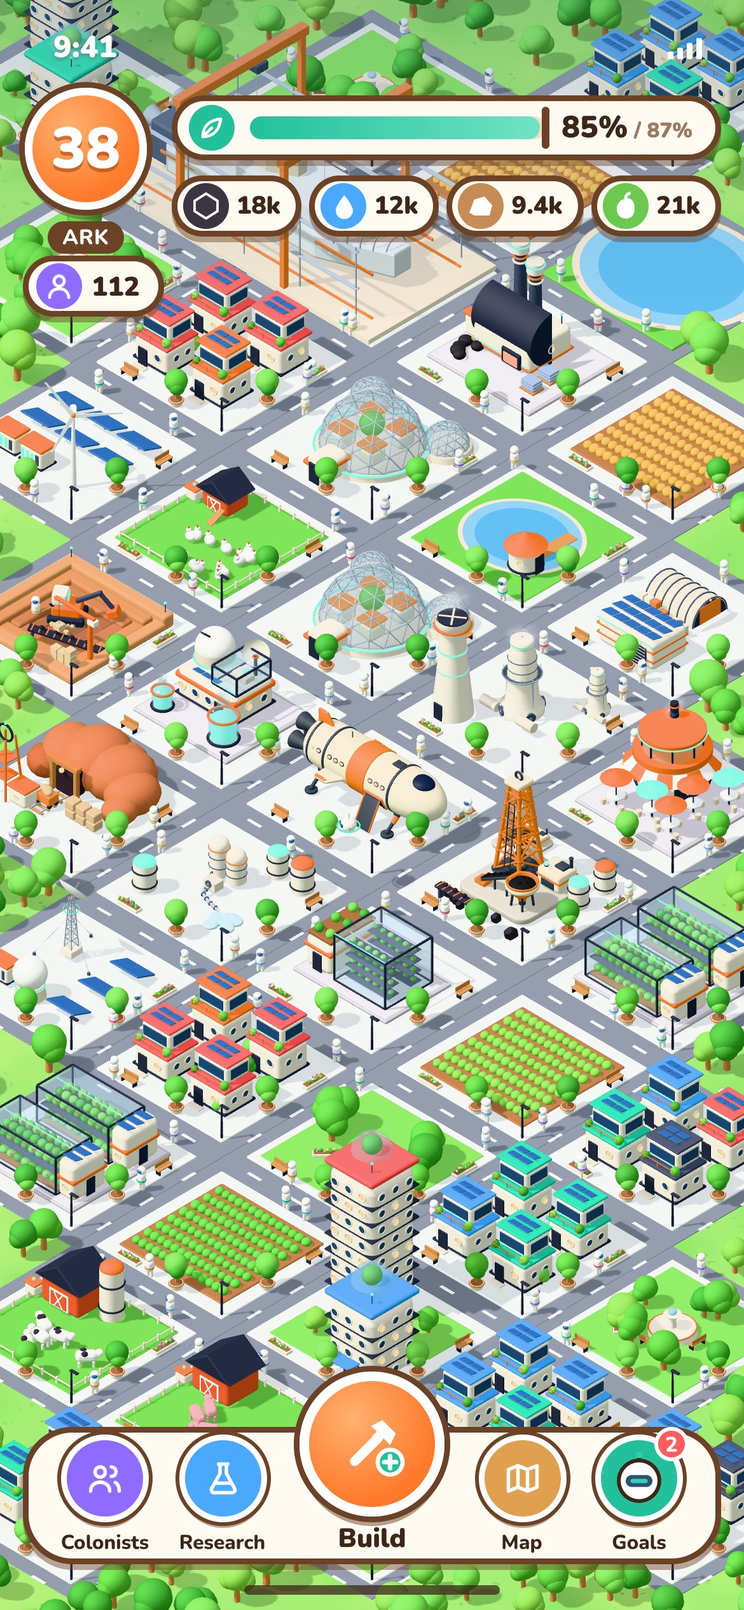
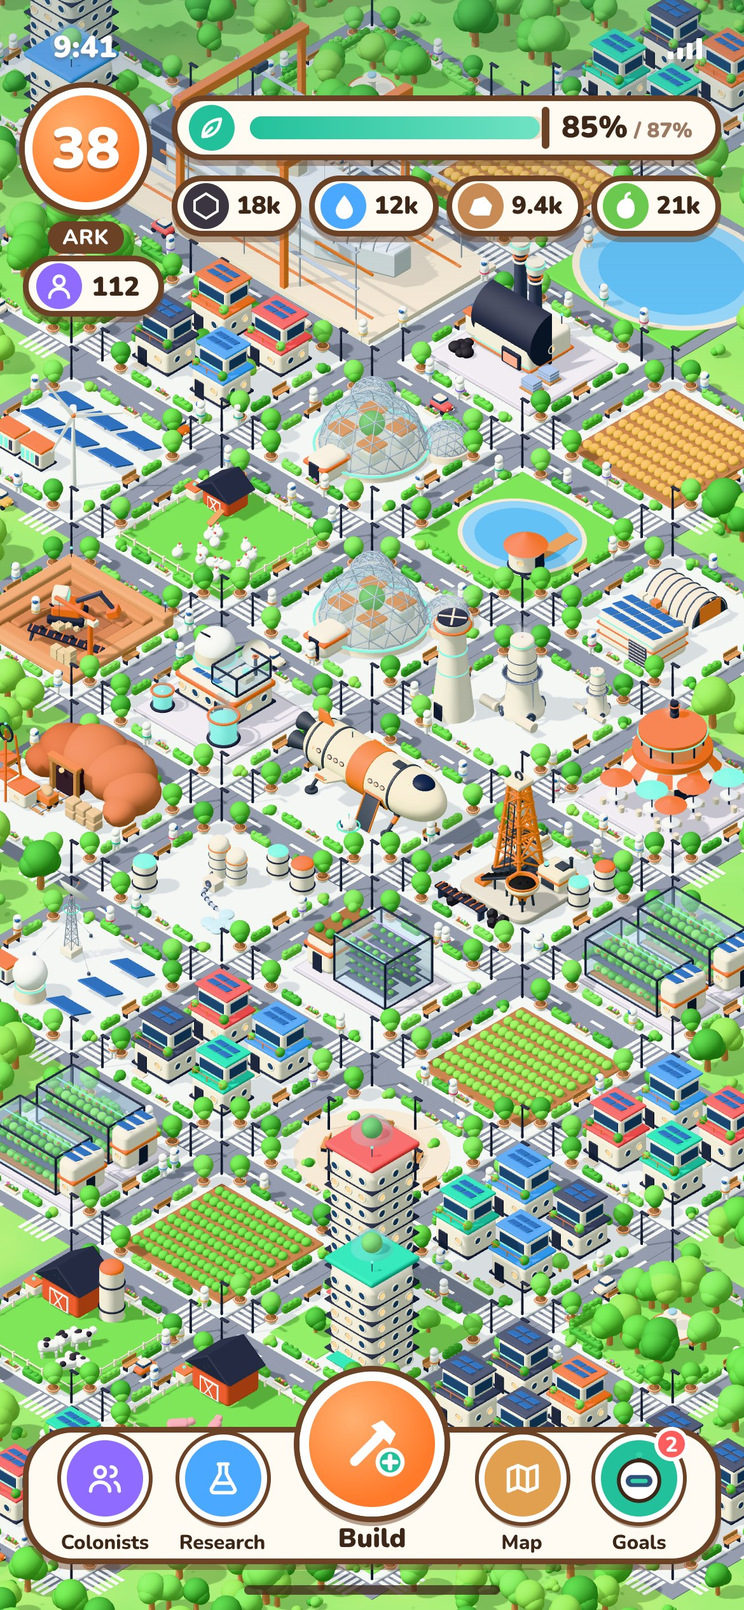
Add denser greenery, street life and night frames to the example map
The pavements get lamps on every corner, long hedges, trees or bushes,
benches and flowers; crossings at the junctions, small electric cars,
hedges around the parks and a plaza with a model of the Ark. The map can
be shown at night (#atm20-night, #atm50-night, #atm85-night): a pale moon,
lit windows, pools of light under the lamps and the cars' headlights.
clip.js takes a list of states and ends the clip with the 85% map at night.

Claude-Session: https://claude.ai/code/session_0132t83ZzM4eeAffyHvqyc3N

diff --git a/mockup/src/map.js b/mockup/src/map.js
@@ -12,14 +12,15 @@ import * as K from './models.js';
 import * as B from './colony.js';
 
 const STATE = (location.hash || '#atm20').slice(1);
-const ATM = { atm20: 20, atm50: 50, atm85: 85 }[STATE] ?? 20;
+const NIGHT = STATE.endsWith('-night'); // the same map at night: #atm20-night, #atm50-night, #atm85-night
+const ATM = { atm20: 20, atm50: 50, atm85: 85 }[STATE.replace('-night', '')] ?? 20;
 const S = ATM >= 85 ? 2 : ATM >= 50 ? 1 : 0; // stage: 0 dust, 1 first green, 2 green planet
 const DPR = Number(new URLSearchParams(location.search).get('dpr') || 1);
 const W = 390, H = 844;
 T.seed(7 + S);
 const rnd = () => T.rng();
 const pick = a => a[Math.floor(rnd() * a.length)];
-B.useRng(rnd);
+B.useRng(rnd); B.setNight(NIGHT);
 
 // ---------- the look of each stage ----------
 const LOOK = [
@@ -27,6 +28,8 @@ const LOOK = [
   { bg: 0xe2b98a, ground: '#e3ad78', tones: ['150,190,100', '240,182,128'], sky: 0xfff6ea, bounce: 0xc9a070, sun: 0xfff6e8, road: 0x8a8f9c },
   { bg: 0x9fd8ff, ground: '#8fcf6a', tones: ['110,186,84', '168,216,112'], sky: 0xf2fbff, bounce: 0x8fbf70, sun: 0xfffaf0, road: 0x7d8494 },
 ][S];
+// at night the sun is a pale moon; lamps, windows and the teal strips give the light
+if (NIGHT) Object.assign(LOOK, { bg: 0x1d2442, sky: 0x7d8cc4, bounce: 0x2a2f4a, sun: 0xa8b8ff });
 
 // ---------- renderer and soft, bright light ----------
 const renderer = new THREE.WebGLRenderer({ antialias: true, preserveDrawingBuffer: true });
@@ -37,9 +40,9 @@ document.getElementById('view').appendChild(renderer.domElement);
 const scene = new THREE.Scene();
 scene.background = new THREE.Color(LOOK.bg);
 scene.environment = new THREE.PMREMGenerator(renderer).fromScene(new RoomEnvironment(), 0.04).texture;
-scene.environmentIntensity = 0.35;
-scene.add(new THREE.HemisphereLight(LOOK.sky, LOOK.bounce, 1.05));
-const sun = new THREE.DirectionalLight(LOOK.sun, 2.8);
+scene.environmentIntensity = NIGHT ? 0.06 : 0.35;
+scene.add(new THREE.HemisphereLight(LOOK.sky, LOOK.bounce, NIGHT ? 0.2 : 1.05));
+const sun = new THREE.DirectionalLight(LOOK.sun, NIGHT ? 0.32 : 2.8);
 sun.position.set(-30, 80, 50); sun.target.position.set(0, 0, 0); scene.add(sun, sun.target);
 sun.castShadow = true; sun.shadow.mapSize.set(4096, 4096); sun.shadow.bias = -0.0004; sun.shadow.normalBias = 0.04; sun.shadow.radius = 5;
 Object.assign(sun.shadow.camera, { left: -110, right: 110, top: 110, bottom: -110, near: 1, far: 300 }); sun.shadow.camera.updateProjectionMatrix();
@@ -179,7 +182,15 @@ function homeDome(tier = 0) {
 }
 // ---------- the soft glow, dust and smoke sprites ----------
 const cloudT = T.cloudTex();
-const dust = (x, y, z, s, color = 0xffffff, op = 0.6) => { const m = new THREE.Sprite(new THREE.SpriteMaterial({ map: cloudT, color, transparent: true, opacity: op, depthWrite: false, rotation: rnd() * 6 })); m.position.set(x, y, z); m.scale.set(s, s * 0.62, 1); scene.add(m); return m; };
+const dust = (x, y, z, s, color = 0xffffff, op = 0.6) => { if (NIGHT) color = new THREE.Color(color).multiplyScalar(0.32); const m = new THREE.Sprite(new THREE.SpriteMaterial({ map: cloudT, color, transparent: true, opacity: op, depthWrite: false, rotation: rnd() * 6 })); m.position.set(x, y, z); m.scale.set(s, s * 0.62, 1); scene.add(m); return m; };
+
+// a pool of light on the ground under a lamp or a lit building: only at night
+const glowT = T.glowTex();
+function pool(x, z, size, color = 0xffc77a, op = 0.5) {
+  if (!NIGHT) return;
+  const m = new THREE.Mesh(new THREE.PlaneGeometry(size, size), new THREE.MeshBasicMaterial({ map: glowT, color, transparent: true, opacity: op, blending: THREE.AdditiveBlending, depthWrite: false }));
+  m.rotation.x = -Math.PI / 2; m.position.set(x, 0.45, z); scene.add(m);
+}
 
 // ---------- load the CellCog models ----------
 const gltf = new GLTFLoader(), glb = {};
@@ -206,7 +217,7 @@ function plot(b) {
   add(rb(PITCH, 0.1, PITCH, roadMat, 0.05, 1), b.cx, 0.03, b.cz);
   if (S > 0) {
     add(rb(13.4, 0.26, 13.4, walkMat, 0.5, 2), b.cx, 0.1, b.cz);
-    for (let k = -1; k <= 1; k++) { add(rb(1.4, 0.04, 0.3, dashMat, 0.05, 1), b.cx + k * 4.5, 0.1, b.cz + 8); add(rb(0.3, 0.04, 1.4, dashMat, 0.05, 1), b.cx + 8, 0.1, b.cz + k * 4.5); }
+    for (const k of [-1, 0]) { add(rb(1.4, 0.04, 0.3, dashMat, 0.05, 1), b.cx + k * 4.5, 0.1, b.cz + 8); add(rb(0.3, 0.04, 1.4, dashMat, 0.05, 1), b.cx + 8, 0.1, b.cz + k * 4.5); }
   } else {
     add(rb(12.4, 0.36, 12.4, edgeMat, 0.5), b.cx, 0.12, b.cz);
     add(rb(11.6, 0.36, 11.6, padMat, 0.45), b.cx, 0.22, b.cz);
@@ -238,16 +249,28 @@ const base = {
 const housing = b => { for (const [x, z] of [[-3, -3], [3, -3], [-3, 3], [3, 3]]) home(b.cx + x, b.cz + z); if (S >= 1) { bush(b.cx, b.cz + 0.2, 0.8); bush(b.cx - 0.3, b.cz - 5.2, 0.6); } if (S === 2) for (let i = 0; i < 3; i++) tree(b.cx - 5 + rnd() * 10, b.cz - 5 + rnd() * 10, 0.6); };
 const park = (b, big) => {
   lawn(b.cx, b.cz, 12, 12);
-  for (let i = 0; i < (big ? 9 : 5); i++) { const a = rnd() * 6.28, r = 3 + rnd() * 2; tree(b.cx + Math.cos(a) * r, b.cz + Math.sin(a) * r, big ? 0.9 + rnd() * 0.5 : 0.55); }
-  if (S > 1) add(B.fountain(), b.cx, 0.3, b.cz); else bush(b.cx, b.cz, 1.2);
+  for (let i = 0; i < (big ? 12 : 8); i++) { const a = rnd() * 6.28, r = 2.8 + rnd() * 2.2; if (big || i % 2) tree(b.cx + Math.cos(a) * r, b.cz + Math.sin(a) * r, big ? 0.9 + rnd() * 0.5 : 0.6); else bush(b.cx + Math.cos(a) * r, b.cz + Math.sin(a) * r, 0.9); }
+  if (S > 1) { add(B.fountain(), b.cx, 0.3, b.cz); pool(b.cx, b.cz, 6, 0x8fd6ff, 0.35); } else bush(b.cx, b.cz, 1.2);
+  // hedges along the edges of the lawn, with gaps for the paths
+  for (const t of [-3.6, 3.6]) { add(B.hedge(3.4), b.cx + t, 0.3, b.cz + 5.6); add(B.hedge(3.4), b.cx + 5.6, 0.3, b.cz + t, Math.PI / 2); add(B.hedge(3.4), b.cx + t, 0.3, b.cz - 5.6); add(B.hedge(3.4), b.cx - 5.6, 0.3, b.cz + t, Math.PI / 2); }
   add(B.bench(S), b.cx, 0.3, b.cz + 2.6, Math.PI); add(B.bench(S), b.cx + 2.6, 0.3, b.cz, -Math.PI / 2);
   add(B.flowers(2.2, 0.7), b.cx - 2.4, 0.3, b.cz + 2.4, Math.PI / 4);
+};
+// the plaza of the landing: a small Ark on a pedestal, flower rings, hedges and benches around it
+const plaza = b => {
+  const disc = (r, m, y) => { const d = new THREE.Mesh(new THREE.CylinderGeometry(r, r, 0.12, 48), m); d.position.set(b.cx, y, b.cz); d.receiveShadow = true; scene.add(d); };
+  disc(5.9, flat(0xf3e6d4), 0.3); disc(4.2, flat(0xe9d6bd), 0.33); disc(2.2, flat(C.lawn), 0.36);
+  add(rb(1.6, 1.2, 1.6, flat(0xfbf3e6), 0.25), b.cx, 1.0, b.cz); add(rb(1.8, 0.2, 1.8, flat(0xff7a2e), 0.08), b.cx, 1.65, b.cz);
+  add(smooth('ark-v1'), b.cx, 1.75, b.cz, 0.6, 0.11);
+  for (let i = 0; i < 12; i++) { const a = i / 12 * Math.PI * 2; if (i % 3 === 0) add(B.lamp(S), b.cx + Math.cos(a) * 4.6, 0.3, b.cz + Math.sin(a) * 4.6); else if (i % 3 === 1) bush(b.cx + Math.cos(a) * 4.9, b.cz + Math.sin(a) * 4.9, 0.7); else add(B.bench(S), b.cx + Math.cos(a) * 3.6, 0.33, b.cz + Math.sin(a) * 3.6, Math.PI / 2 - a); }
+  for (let i = 0; i < 4; i++) { const a = i / 4 * Math.PI * 2 + Math.PI / 4; add(B.flowers(1.6, 0.6), b.cx + Math.cos(a) * 1.8, 0.33, b.cz + Math.sin(a) * 1.8, Math.PI / 2 - a); }
+  pool(b.cx, b.cz, 9, 0xffd58a, 0.45);
 };
 const towers = b => { flats(b.cx - 3, b.cz - 3, 7 + Math.floor(rnd() * 4)); flats(b.cx + 3, b.cz + 3, 4 + Math.floor(rnd() * 3)); lawn(b.cx + 3, b.cz - 3, 5, 5); tree(b.cx + 3, b.cz - 3, 0.8); lawn(b.cx - 3, b.cz + 3, 5, 5); tree(b.cx - 3, b.cz + 3, 0.8); };
 const grown = {
   '1,3': b => field(b.cx, b.cz, 0x8fd65a), '-1,3': housing,
   '1,-3': b => { lawn(b.cx, b.cz, 12, 12, flat(C.lawn2)); pond(b.cx, b.cz, 4.8, 4.2, true); }, '-1,-3': b => pen(b.cx, b.cz, 'chicken', 14),
-  '0,4': b => park(b, S === 2), '2,4': housing, '-2,4': b => { add(B.greenhouse(8, S), b.cx, 0.2, b.cz - 2.8, 0, 0.95); add(B.greenhouse(8, S), b.cx, 0.2, b.cz + 2.8, 0, 0.95); },
+  '0,4': b => plaza(b), '2,4': housing, '-2,4': b => { add(B.greenhouse(8, S), b.cx, 0.2, b.cz - 2.8, 0, 0.95); add(B.greenhouse(8, S), b.cx, 0.2, b.cz + 2.8, 0, 0.95); },
   '0,-4': b => add(shadowAll(homeDome(S)), b.cx, 0.2, b.cz, 0, 1.1), '2,-4': b => field(b.cx, b.cz, 0xffc65c), '-2,-4': b => { for (let i = 0; i < 3; i++) for (let r = 0; r < 2; r++) { const p = rb(3.0, 0.15, 2.0, M.solar, 0.05, 1); p.rotation.x = -0.35; add(p, b.cx - 3.6 + i * 3.6, 1.0, b.cz - 3.6 + r * 3.0); add(rb(0.15, 0.9, 0.15, M.steel, 0.04, 1), b.cx - 3.6 + i * 3.6, 0.45, b.cz - 3.6 + r * 3.0); } add(B.battery(), b.cx - 3.4, 0.2, b.cz + 3.0); add(B.battery(), b.cx - 0.6, 0.2, b.cz + 3.0); add(shadowAll(K.turbine(0.6)), b.cx + 3.6, 0.2, b.cz + 3.4, 0.8, 0.6); },
   '1,5': housing, '-1,5': b => field(b.cx, b.cz, 0x6cc94f),
   // the silicon furnace smokes: the smoke is what pulls the atmosphere down
@@ -269,8 +292,8 @@ for (const b of blocks) {
   if (b.built && S === 0) { plot(b); futurePlot(b); continue; }
   // outside the colony: bare rock on the dusty planet, bushes and young trees later, forest at the end
   if (S === 0) { for (let i = 0; i < 6; i++) rock(b.cx - 6 + rnd() * 12, b.cz - 6 + rnd() * 12, 0.6 + rnd() * 1.4); }
-  else if (S === 1) { for (let i = 0; i < 5; i++) rock(b.cx - 6 + rnd() * 12, b.cz - 6 + rnd() * 12, 0.5 + rnd()); for (let i = 0; i < 4; i++) tree(b.cx - 6 + rnd() * 12, b.cz - 6 + rnd() * 12, 0.45 + rnd() * 0.2); }
-  else { for (let i = 0; i < 14; i++) tree(b.cx - 7 + rnd() * 14, b.cz - 7 + rnd() * 14, 0.9 + rnd() * 0.6); }
+  else if (S === 1) { for (let i = 0; i < 5; i++) rock(b.cx - 6 + rnd() * 12, b.cz - 6 + rnd() * 12, 0.5 + rnd()); for (let i = 0; i < 7; i++) tree(b.cx - 6 + rnd() * 12, b.cz - 6 + rnd() * 12, 0.45 + rnd() * 0.25); for (let i = 0; i < 4; i++) bush(b.cx - 6 + rnd() * 12, b.cz - 6 + rnd() * 12, 0.6); }
+  else { for (let i = 0; i < 20; i++) tree(b.cx - 7 + rnd() * 14, b.cz - 7 + rnd() * 14, 0.9 + rnd() * 0.6); for (let i = 0; i < 6; i++) bush(b.cx - 7 + rnd() * 14, b.cz - 7 + rnd() * 14, 0.8); }
 }
 // colonists on the pavements: more of them wake up as the colony grows
 for (const b of builtBlocks) people(b.cx, b.cz, [1, 2, 3][S]);
@@ -278,15 +301,32 @@ for (const b of builtBlocks) people(b.cx, b.cz, [1, 2, 3][S]);
 const noStreet = new Set(['0,-6', '-1,-7', '2,-6']);
 for (const b of builtBlocks) {
   if (noStreet.has(`${b.d},${b.s}`)) continue;
-  const e = S ? 6.35 : 5.95, y = S ? 0.23 : 0.4;
-  add(B.lamp(S), b.cx + e, y, b.cz + e);
-  [[-3.5, e, 0], [1.5, e, 0], [e, -3.5, Math.PI / 2], [e, 1.5, Math.PI / 2]].forEach(([x, z, ry], i) => {
-    const k = (i + Math.abs(b.d * 3 + b.s)) % 4;
-    if (k === 0) add(B.bench(S), b.cx + x, y, b.cz + z, ry);
-    else if (k === 1 || (k === 3 && S)) add(B.planter(S), b.cx + x, y, b.cz + z);
-    else if (k === 2 && S) add(B.flowers(2.2, 0.7), b.cx + x, y, b.cz + z, ry);
-    else add(B.lamp(S), b.cx + x, y, b.cz + z);
+  const e = S ? 6.35 : 5.95, y = S ? 0.23 : 0.4, h = Math.abs(b.d * 3 + b.s);
+  for (const [sx, sz] of [[1, 1], [-1, 1], [1, -1], [-1, -1]]) { add(B.lamp(S), b.cx + sx * e, y, b.cz + sz * e); pool(b.cx + sx * e, b.cz + sz * e, 7); }
+  [[0, 1], [1, 0], [0, -1], [-1, 0]].forEach(([ax, az], side) => {
+    const ry = ax ? Math.PI / 2 : 0, at = t => [b.cx + (ax ? ax * e : t), b.cz + (az ? az * e : t)];
+    if (S === 0) {
+      // the dusty planet: plants only under glass, a bench in the middle of the side
+      for (const t of [-3.4, 3.4]) if ((h + side) % 2 === 0) { const [x, z] = at(t); add(B.planter(0), x, y, z); }
+      if ((h + side) % 3 === 0) { const [x, z] = at(0); add(B.bench(0), x, y, z, ax ? (ax > 0 ? Math.PI / 2 : -Math.PI / 2) : (az > 0 ? 0 : Math.PI)); }
+      return;
+    }
+    // from 50%: a tree or a round bush at both ends, long hedges in between, a bench or flowers in the middle
+    for (const t of [-4.4, 4.4]) { const [x, z] = at(t); if (S > 1 && (h + side + (t > 0)) % 3) add(B.planter(2), x, y, z, 0, 0.85); else bush(x, z, 0.75); }
+    for (const t of [-2.2, 2.2]) { const [x, z] = at(t); add(B.hedge(1.9), x, y, z, ry); }
+    const [x, z] = at(0);
+    if ((h + side) % 2) add(B.bench(S), x, y, z, ax ? (ax > 0 ? Math.PI / 2 : -Math.PI / 2) : (az > 0 ? 0 : Math.PI)); else add(B.flowers(1.4, 0.55), x, y, z, ry);
   });
+  // zebra crossings next to the corner the camera sees
+  if (S > 0) for (let i = 0; i < 5; i++) { add(rb(0.35, 0.04, 2.3, dashMat, 0.04, 1), b.cx + 3.6 + i * 0.6, 0.1, b.cz + 8); add(rb(2.3, 0.04, 0.35, dashMat, 0.04, 1), b.cx + 8, 0.1, b.cz + 3.6 + i * 0.6); }
+}
+// electric cars on the streets from 50%; their headlights light the road at night
+const carCols = [B.P.orange, flat(0x4aa8ff), flat(0xffc65c), flat(0x33c5a2), flat(0xff5d5d), B.P.cream];
+for (let i = 0; i < [0, 6, 14][S]; i++) {
+  const b = builtBlocks[Math.floor(rnd() * builtBlocks.length)], alongX = rnd() < 0.5, t = (rnd() - 0.5) * 9, dir = rnd() < 0.5 ? 1 : -1;
+  const x = alongX ? b.cx + t : b.cx + 8 + dir * 0.6, z = alongX ? b.cz + 8 + dir * 0.6 : b.cz + t;
+  add(B.car(pick(carCols)), x, 0.08, z, alongX ? (dir > 0 ? 0 : Math.PI) : (dir > 0 ? -Math.PI / 2 : Math.PI / 2), 0.9);
+  pool(alongX ? x + dir * 2 : x, alongX ? z : z - dir * 2, 3.5, 0xfff0c0, 0.4);
 }
 const echo = add(shadowAll(K.echoBot()), 6.5, 6.2, 9, -0.6, 1.25);
 // the part of the canyon that is still locked lies under dust
@@ -302,9 +342,10 @@ function aim(view, x, z) { // view = metres across the screen width
 }
 // the clip (clip.js): from the overview the camera glides in towards what grew at this stage
 const SHOT = [[-14, 2], [-26, -26], [-46, -42]][S];
-window.__frame = t => { const e = t * t * (3 - 2 * t); aim(56 - 22 * e, SHOT[0] * e, SHOT[1] * e); echo.position.y = 6.2 + Math.sin(t * 12) * 0.3; renderer.render(scene, camera); };
+window.__frame = t => { const e = NIGHT ? 1 - t * t * (3 - 2 * t) : t * t * (3 - 2 * t); aim(56 - 22 * e, SHOT[0] * e, SHOT[1] * e); echo.position.y = 6.2 + Math.sin(t * 12) * 0.3; renderer.render(scene, camera); };
 window.__aim = (view, x, z) => { aim(view, x, z); renderer.render(scene, camera); };
 aim(56, 0, 0);
 renderer.render(scene, camera);
-window.__state = { atm: ATM, stage: S };
+for (const [x, z, s, c] of [[-16, 0, 8, 0x5fe3d0], [16, -16, 9, 0xffc77a], [16, 16, 8, 0xd38cff], [0, -16, 8, 0x5fe3d0], [-16, -16, 9, 0xffd58a], [0, 0, 12, 0xffd58a]]) pool(x, z, s, c, 0.35);
+window.__state = { atm: ATM, stage: S, night: NIGHT };
 window.dispatchEvent(new Event('scene-ready'));

diff --git a/mockup/src/colony.js b/mockup/src/colony.js
@@ -26,6 +26,7 @@ function ball(g, r, m, x, y, z, sy = 1) { const b = new THREE.Mesh(ballGeo, m); 
 function band(g, r, t, m, x, y, z) { const o = new THREE.Mesh(new THREE.TorusGeometry(r, t, 8, 40), m); o.rotation.x = Math.PI / 2; o.position.set(x, y, z); g.add(o); return o; }
 // a round window: a navy (or lit) disk with a cream rim, on the +z or the +x side
 function port(g, x, y, z, r, face = 'z', lit = false) {
+  if (NIGHT && !lit) lit = rnd() < 0.6;
   const p = new THREE.Group();
   p.add(new THREE.Mesh(new THREE.CircleGeometry(r, 24), lit ? P.warm : P.window));
   const rim = new THREE.Mesh(new THREE.TorusGeometry(r, r * 0.2, 8, 24), P.cream); p.add(rim);
@@ -50,8 +51,10 @@ function glassRoom(g, w, h, d, x, y, z) {
   for (const sy of [0, h]) { for (const sz of [-1, 1]) box(g, w, 0.16, 0.16, P.navy, x, y + sy, z + sz * d / 2, 0.05); for (const sx of [-1, 1]) box(g, 0.16, 0.16, d, P.navy, x + sx * w / 2, y + sy, z, 0.05); }
 }
 const done = g => { g.traverse(m => { if (m.isMesh) { m.castShadow = !m.material.transparent; m.receiveShadow = true; } }); return g; };
-let rnd = Math.random;
+let rnd = Math.random, NIGHT = false;
 export const useRng = f => { rnd = f; };
+// at night more windows are lit
+export const setNight = on => { NIGHT = on; };
 
 // ---------- homes: a cream house with a pitched roof, a navy ring, round windows and a door ----------
 // modern (tier 2): a second floor with wide windows, a flat roof with solar panels, a balcony and plants
@@ -400,6 +403,22 @@ export function flowers(w = 2.2, d = 0.8, r = rnd) {
   const g = new THREE.Group();
   box(g, w, 0.3, d, P.cream, 0, 0.15, 0, 0.1); box(g, w - 0.2, 0.06, d - 0.2, P.soil, 0, 0.31, 0, 0.03);
   for (let i = 0; i < Math.round(w * 4); i++) { ball(g, 0.14, P.leaf[r() * 3 | 0], -w / 2 + 0.2 + r() * (w - 0.4), 0.42, -d / 2 + 0.2 + r() * (d - 0.4)); ball(g, 0.09, blooms[r() * 4 | 0], -w / 2 + 0.2 + r() * (w - 0.4), 0.55, -d / 2 + 0.2 + r() * (d - 0.4)); }
+  return done(g);
+}
+// a long trimmed hedge, like the ones along the pavements in the reference picture
+export function hedge(len = 2, r = rnd) {
+  const g = new THREE.Group(), m = P.leaf[r() * 3 | 0];
+  box(g, len, 0.7, 0.55, m, 0, 0.4, 0, 0.26);
+  for (let i = 0; i < Math.round(len / 0.55); i++) ball(g, 0.2, m, -len / 2 + 0.28 + i * 0.55, 0.72, (r() - 0.5) * 0.15, 0.7);
+  return done(g);
+}
+// a small electric car of the colony: rounded body, glass cabin, headlights that light up at night
+export function car(color = P.orange) {
+  const g = new THREE.Group();
+  box(g, 2.0, 0.6, 1.05, color, 0, 0.55, 0, 0.28);
+  box(g, 1.1, 0.5, 0.95, P.cream, -0.15, 1.05, 0, 0.22); box(g, 1.12, 0.3, 0.97, P.window, -0.15, 1.08, 0, 0.12);
+  for (const [x, z] of [[-0.62, -0.5], [0.62, -0.5], [-0.62, 0.5], [0.62, 0.5]]) { const w = cyl(g, 0.22, 0.22, 0.16, P.navy, x, 0.24, z, { seg: 14 }); w.rotation.x = Math.PI / 2; }
+  for (const z of [-0.3, 0.3]) box(g, 0.08, 0.14, 0.22, P.warm, 1.0, 0.62, z, 0.04);
   return done(g);
 }
 export function fountain() {

diff --git a/mockup/clip.js b/mockup/clip.js
@@ -1,6 +1,7 @@
 // Renders the example map as a clip: for each atmosphere level the camera holds on the overview,
-// then glides in towards what grew at that stage; the stages cross-fade into each other.
-//   node clip.js [scale=2] [seconds per stage=3.5]
+// then glides in towards what grew at that stage; the stages cross-fade into each other. At the end the
+// 85% map turns to night where the camera stopped, and the camera pulls out over the lit colony.
+//   node clip.js [scale=2] [seconds per stage=3.5] [states=atm20,atm50,atm85,atm85-night]
 // Start the local server first: npm run serve (port 8777). Needs Playwright with Chromium and ffmpeg.
 // Writes out/clip/<state>/f0000.jpg ... and out/map-clip.mp4.
 const { chromium } = require('playwright');
@@ -10,7 +11,7 @@ const path = require('path');
 
 (async () => {
   const dpr = Number(process.argv[2] || 2), secs = Number(process.argv[3] || 3.5), fps = 30, fade = 0.8;
-  const states = ['atm20', 'atm50', 'atm85'];
+  const states = (process.argv[4] || 'atm20,atm50,atm85,atm85-night').split(',');
   const n = Math.round(secs * fps), hold = Math.round(0.6 * fps);
   const browser = await chromium.launch({ args: ['--use-gl=angle', '--use-angle=swiftshader', '--enable-unsafe-swiftshader', '--ignore-gpu-blocklist', '--no-proxy-server'] });
   for (const s of states) {
@@ -31,8 +32,9 @@ const path = require('path');
   await browser.close();
   // one stream per stage, cross-faded into each other
   const ins = states.flatMap(s => ['-framerate', String(fps), '-i', path.join('out', 'clip', s, 'f%04d.jpg')]);
-  const off1 = (secs - fade).toFixed(2), off2 = (2 * secs - 2 * fade).toFixed(2);
-  const filter = `[0][1]xfade=transition=fade:duration=${fade}:offset=${off1}[a];[a][2]xfade=transition=fade:duration=${fade}:offset=${off2},format=yuv420p[v]`;
+  let filter = '', last = '0';
+  for (let i = 1; i < states.length; i++) { filter += `[${last}][${i}]xfade=transition=fade:duration=${fade}:offset=${(i * (secs - fade)).toFixed(2)}[x${i}];`; last = `x${i}`; }
+  filter += `[${last}]format=yuv420p[v]`;
   execFileSync('ffmpeg', ['-nostdin', '-loglevel', 'error', '-y', ...ins, '-filter_complex', filter, '-map', '[v]', '-c:v', 'libx264', '-crf', '21', '-movflags', '+faststart', path.join('out', 'map-clip.mp4')], { cwd: __dirname, stdio: 'inherit' });
   console.log('out/map-clip.mp4');
 })();

diff --git a/mockup/map.html b/mockup/map.html
@@ -97,11 +97,12 @@ function bubble(a, text) {
 const badge = (a, inner, tag = '', cls = '') => `<div class="badge" style="left:${a.x.toFixed(1)}px;top:${a.y.toFixed(1)}px"><div class="b ${cls}">${inner}</div>${tag ? `<div class="tag">${tag}</div>` : ''}<div class="stem"></div></div>`;
 function hud() {
   // the example map at three atmosphere levels; the level and the numbers are examples
-  const { atm, stage } = window.__state;
+  const { atm, stage, night } = window.__state;
   const v = [{ lvl: 6, next: 22, res: [640, 410, 220, 180], crew: '8', haze: 'rgba(120, 60, 30, .28)' },
              { lvl: 21, next: 52, res: ['4.2k', '2.8k', '1.9k', '3.1k'], crew: '36', haze: 'rgba(110, 80, 50, .22)' },
              { lvl: 38, next: 87, res: ['18k', '12k', '9.4k', '21k'], crew: '112', haze: 'rgba(40, 80, 110, .22)' }][stage];
-  let h = `<div class="shade" style="background:linear-gradient(${v.haze}, rgba(0,0,0,0))"></div>`;
+  let h = `<div class="shade" style="background:linear-gradient(${night ? 'rgba(10, 14, 40, .55)' : v.haze}, rgba(0,0,0,0))"></div>`;
+  if (night) h += `<div class="crew" style="left:auto;right:12px"><div class="pill card"><span class="ic" style="background:#2f3346"><svg width="14" height="14" viewBox="0 0 24 24"><path d="M20 14.5A8.5 8.5 0 0 1 9.5 4a8.5 8.5 0 1 0 10.5 10.5z" fill="#ffd58a"/></svg></span>Night</div></div>`;
   h += `<div class="status"><span>9:41</span><span class="r"><svg width="18" height="11" viewBox="0 0 18 11" fill="#fff"><rect x="0" y="7" width="3" height="4" rx=".8"/><rect x="5" y="5" width="3" height="6" rx=".8"/><rect x="10" y="2.5" width="3" height="8.5" rx=".8"/><rect x="15" y="0" width="3" height="11" rx=".8"/></svg></span></div>`;
   h += `<div class="ark"><div class="c">${v.lvl}</div><span class="t">ARK</span></div>`;
   h += `<div class="atm card"><span class="ic">${ICON.leaf}</span><div class="bar"><i style="width:${atm / v.next * 100}%"></i><b style="right:-2px"></b></div><span class="v">${atm}%<small> / ${v.next}%</small></span></div>`;

diff --git a/mockup/README.md b/mockup/README.md
@@ -18,12 +18,13 @@
 | `map-atm-20.jpg` | Примерна карта (map.html) с камера под ъгъл като в градостроителна игра: атмосфера 20%, базата около Ковчега (мината с релсите и вагонетката, складът с контейнерите от Ковчега, кухнята, рисърчът, куполът), първите оранжерии, останалото под прах |
 | `map-atm-50.jpg` | Същата карта при 50%: улици, къщи, ниви навън, пилета, рибарник, енергия (панели, батерии за нощта, турбина), втори купол, пещта за силиций с дим, първите дървета |
 | `map-atm-85.jpg` | Същата карта при 85%: зелена планета, блокове, паркове, езеро, крави и прасета, корабостроителницата с бойния кораб в скелето (горе), гори около колонията |
+| `map-atm-20-night.jpg`, `map-atm-50-night.jpg`, `map-atm-85-night.jpg` | Същата карта нощем: луната свети слабо, светят лампите (кръгове светлина по земята), прозорците, светещите ленти, фаровете на колите |
 
-До мината е кариерата, където се копае камъкът: при 20% колонисти с кирки, при 50% багер и конвейер, при 85% по-дълбок изкоп, голям багер, лампи и кран. По тротоарите има пейки, лампи, саксии и цветя, а в парковете пейки и фонтан; и те се подобряват: при 20% растенията са под стъклени камбани (въздухът навън още е рядък), при 50% храсти, при 85% дървета.
+До мината е кариерата, където се копае камъкът: при 20% колонисти с кирки, при 50% багер и конвейер, при 85% по-дълбок изкоп, голям багер, лампи и кран. По тротоарите има лампи на всеки ъгъл, пейки, саксии, цветя и продълговати живи плетове, пешеходни пътеки на кръстовищата и малки електрически коли; в парковете плетове около тревата, пейки и фонтан, а на площада паметник на Ковчега; и те се подобряват: при 20% растенията са под стъклени камбани (въздухът навън още е рядък), при 50% храсти, при 85% дървета.
 
 Сградите в картата имат три нива на подобрение, по едно за всеки кадър: основни при 20%, подобрени при 50% (допълнителни модули, резервоари, конвейери, соларни панели, тенти) и модерни при 85% (втори етажи и стъкло, светещи ленти, филтри на комините, нова атмосферна кула, склад с панели, асансьор на мината).
 
-Клипът на картата (`node clip.js`, излиза в `out/map-clip.mp4`): при всяка атмосфера камерата тръгва от общия изглед и се приближава към това, което е пораснало; трите етапа преминават плавно един в друг. Копие е в `screens/map-clip.mp4`.
+Клипът на картата (`node clip.js`, излиза в `out/map-clip.mp4`): при всяка атмосфера камерата тръгва от общия изглед и се приближава към това, което е пораснало; трите етапа преминават плавно един в друг, а накрая картата при 85% става нощна и камерата се отдалечава над осветената колония. Копие е в `screens/map-clip.mp4`.
 
 Всички кадри следват docs/levels.md (обновени на 03.11.2026), а текстовете в тях са на английски. Числата за ресурсите, цените и времената са примерни. Атмосферата 90% на ниво 78 зависи от отворения въпрос дали +2% на ниво остава и след ниво 10.
 
@@ -52,7 +53,7 @@ cd mockup
 npm run shots
 ```
 
-Кадрите излизат в `out/`. Новата приятелска визия е в `cartoon.html` (`src/cartoon.js`), състояния `#lvl1` и `#lvl3`: `node shot.js 3 lvl1,lvl3 cartoon.html`. Примерната карта с камера под ъгъл е в `map.html` (`src/map.js`), състояния `#atm20`, `#atm50`, `#atm85`: `node shot.js 3 atm20,atm50,atm85 map.html`. Нивата и числата в нея са примерни. Едно състояние се отваря и в браузъра: `http://127.0.0.1:8777/index.html#early` (още `#early-zoom`, `#early-panel`, `#early-build`, `#early-place`, `#late`, `#late-zoom`).
+Кадрите излизат в `out/`. Новата приятелска визия е в `cartoon.html` (`src/cartoon.js`), състояния `#lvl1` и `#lvl3`: `node shot.js 3 lvl1,lvl3 cartoon.html`. Примерната карта с камера под ъгъл е в `map.html` (`src/map.js`), състояния `#atm20`, `#atm50`, `#atm85` и нощем `#atm20-night`, `#atm50-night`, `#atm85-night`: `node shot.js 3 atm20,atm50,atm85,atm20-night,atm50-night,atm85-night map.html`. Нивата и числата в нея са примерни. Едно състояние се отваря и в браузъра: `http://127.0.0.1:8777/index.html#early` (още `#early-zoom`, `#early-panel`, `#early-build`, `#early-place`, `#late`, `#late-zoom`).
 
 ## Файлове
 

diff --git a/docs/notes.md b/docs/notes.md
@@ -113,7 +113,7 @@
 
 | Дата | Промяна | Статус |
 | --- | --- | --- |
-| 04.11.2026 | Пацо: примерна карта с камера под ъгъл като в градостроителна игра (по снимка), при атмосфера 20%, 50% и 85%: mockup/map.html, кадри map-atm-20/50/85 в mockup/screens. Предложение: камерата под ъгъл ~36° по диагонала на улиците; решеното досега е „само отгоре“. Нивата 6, 21 и 38 и числата са примерни. Сградите в картата са преправени в стила на Ковчега и сондата (src/colony.js), всяка с различна форма: къща с покрив, блок, оранжерия, рисърч с купол и колба, лаборатория за зеленчуци, кухня с тента и маси, пещ за силиций, плевня, рибарник. От старите кадри са добавени мината с релсите и вагонетката, складът с контейнерите, батериите и корабостроителницата с бойния кораб (при 85%). Сградите се подобряват видимо на трите нива: основни при 20%, подобрени при 50%, модерни при 85% (предложение за това как изглеждат ъпгрейдите). Кариера до мината (кирки → багер и конвейер → голям багер и кран) и улично обзавеждане по нивата: пейки, лампи, саксии (под стъкло при 20%), храсти, дървета, цветя, фонтан. Клип 20% → 50% → 85% в mockup/screens/map-clip.mp4. Качено само в клона claude/gifted-albattani-15oyi9, не в main и не в документа в Claude | В работа |
+| 04.11.2026 | Пацо: примерна карта с камера под ъгъл като в градостроителна игра (по снимка), при атмосфера 20%, 50% и 85%: mockup/map.html, кадри map-atm-20/50/85 в mockup/screens. Предложение: камерата под ъгъл ~36° по диагонала на улиците; решеното досега е „само отгоре“. Нивата 6, 21 и 38 и числата са примерни. Сградите в картата са преправени в стила на Ковчега и сондата (src/colony.js), всяка с различна форма: къща с покрив, блок, оранжерия, рисърч с купол и колба, лаборатория за зеленчуци, кухня с тента и маси, пещ за силиций, плевня, рибарник. От старите кадри са добавени мината с релсите и вагонетката, складът с контейнерите, батериите и корабостроителницата с бойния кораб (при 85%). Сградите се подобряват видимо на трите нива: основни при 20%, подобрени при 50%, модерни при 85% (предложение за това как изглеждат ъпгрейдите). Кариера до мината (кирки → багер и конвейер → голям багер и кран) и улично обзавеждане по нивата: пейки, лампи, саксии (под стъкло при 20%), храсти, дървета, цветя, фонтан. По-гъста зеленина: живи плетове по тротоарите, дървета и храсти на всеки квартал, пешеходни пътеки, малки коли, площад с паметник на Ковчега. Нощни кадри на трите етапа (лампите, прозорците и фаровете светят). По нивата денят и нощта се сменят от ниво 7, така че нощта при 20% (ниво 6) е само за сравнение. Клип 20% → 50% → 85% в mockup/screens/map-clip.mp4. Качено само в клона claude/gifted-albattani-15oyi9, не в main и не в документа в Claude | В работа |
 | 03.11.2026 | Жоро: „актуализирай и качи“. Документите в Claude и визията са проверени (без промени от браузъра). В main са качени кадрите на макета по нивата | Готово |
 | 03.11.2026 | Жоро: кадрите на макета по нивата. Новата визия: на ниво 3 мината (скален хълм с вход, релси и вагонетка) вместо кариерата. Старият макет: кадрите 01–07 наново, с текстове на английски; на ниво 10 атмосфера 28%, мината, кухнята и силициевата пещ на мястото на отломките, менюто за строеж с оранжерията, сондата с един работник и подобрение срещу ресурси и време; 7 от 10 скици на ниво 78. Кадрите в документа „ход на играта по концепцията“ са сменени | Готово |
 | 03.11.2026 | Жоро: „актуализирай и качи“. Документите в Claude и визията са проверени (без промени от браузъра). В main е качена работата от 02–03.11.2026: нивата (docs/levels.md), новата визия, ходът по концепцията и всички документи, приведени по нивата | Готово |
